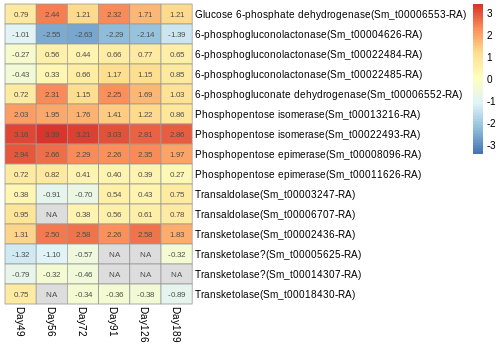
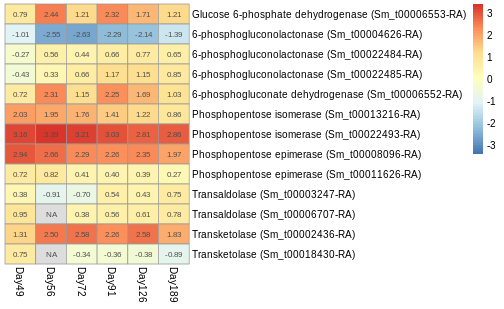
Update pentose phosphate pathway heatmaps

diff --git a/10_FinalResults/README.md b/10_FinalResults/README.md
@@ -99,6 +99,20 @@ Note that glucose-6-phosphatase (final step in gluconeogenesis) has not yet been
 | ![R05_Gluconeogenesis](../08_GenesToLookFor/GeneChecks/Gluconeogenesis/Gluconeogenesis.R05.lfc0.png) | ![GF04_Gluconeogenesis](../08_GenesToLookFor/GeneChecks/Gluconeogenesis/Gluconeogenesis.GF04.lfc0.png) |
 
 
+### Pentose phosphate pathway
+**Relevance**: Parallel process to glycolysis
+
+(Cytosolic in diatoms? [cf. plastidic in plants])
+
+Largely upregulated, especially phosphopentose isomerase
+
+_What are the consequences in terms of products?_
+
+| R05 | GF04 |
+|-----|------|
+| ![R05_PentosePhosphatePathway](../08_GenesToLookFor/GeneChecks/PentosePhosphatePathway/PentosePhosphatePathway.R05.lfc0.png) | ![GF04_PentosePhosphatePathway](../08_GenesToLookFor/GeneChecks/PentosePhosphatePathway/PentosePhosphatePathway.GF04.lfc0.png) |
+
+
 
 
 
@@ -221,21 +235,6 @@ _Note: Some of the a-ketoglutarate dehydrogenase E3 predictions may be dihydroli
 | R05 | GF04 |
 |-----|------|
 | ![R05_CalvinCycle](../08_GenesToLookFor/GeneChecks/CalvinCycle/CalvinCycle.R05.lfc0.png) | ![GF04_CalvinCycle](../08_GenesToLookFor/GeneChecks/CalvinCycle/CalvinCycle.GF04.lfc0.png) |
-
-
-### Pentose phosphate pathway
-**Relevance**: Parallel process to glycolysis
-
-(Cytosolic in diatoms? [cf. plastidic in plants])
-
-Largely upregulated, especially phosphopentose isomerase
-
-_What are the consequences in terms of products?_
-* _Still missing some genes!_
-
-| R05 | GF04 |
-|-----|------|
-| ![R05_PentosePhosphatePathway](../08_GenesToLookFor/GeneChecks/PentosePhosphatePathway/PentosePhosphatePathway.R05.lfc0.png) | ![GF04_PentosePhosphatePathway](../08_GenesToLookFor/GeneChecks/PentosePhosphatePathway/PentosePhosphatePathway.GF04.lfc0.png) |
 
 
 ### Transporters
